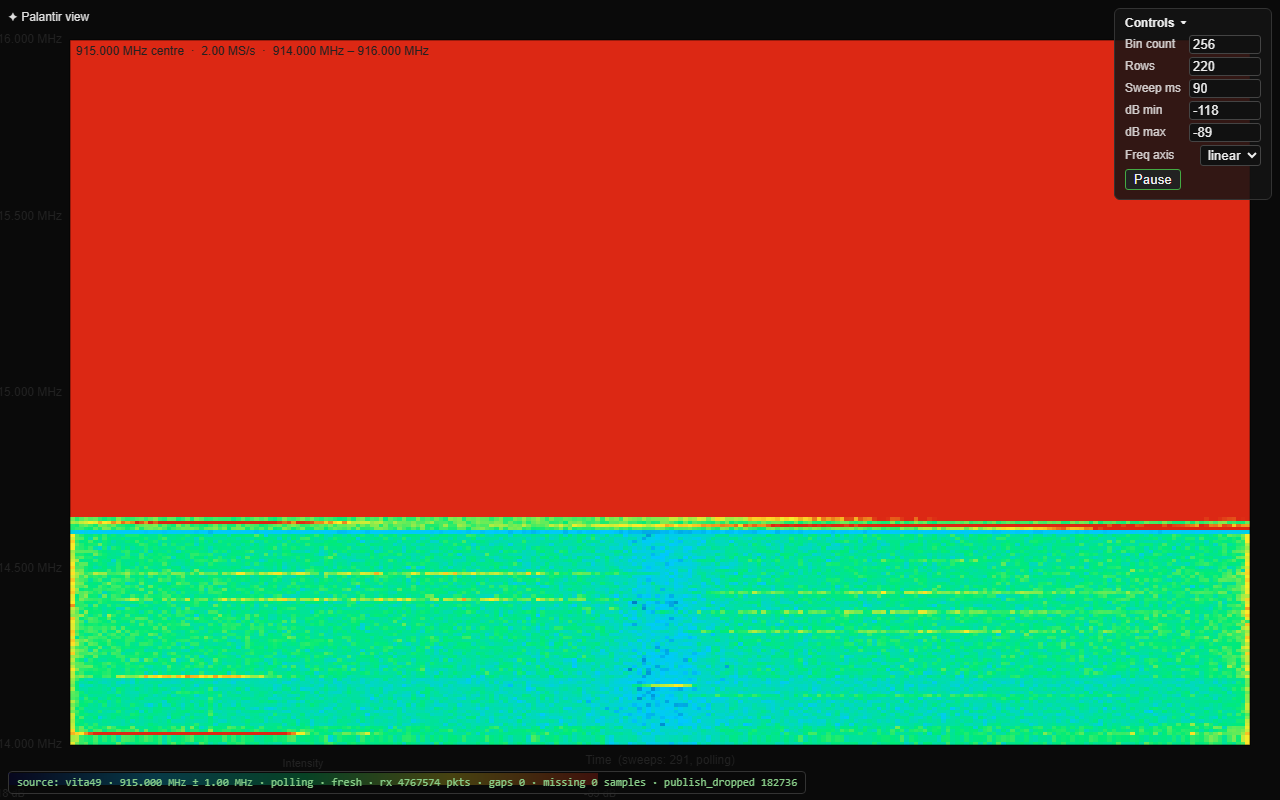
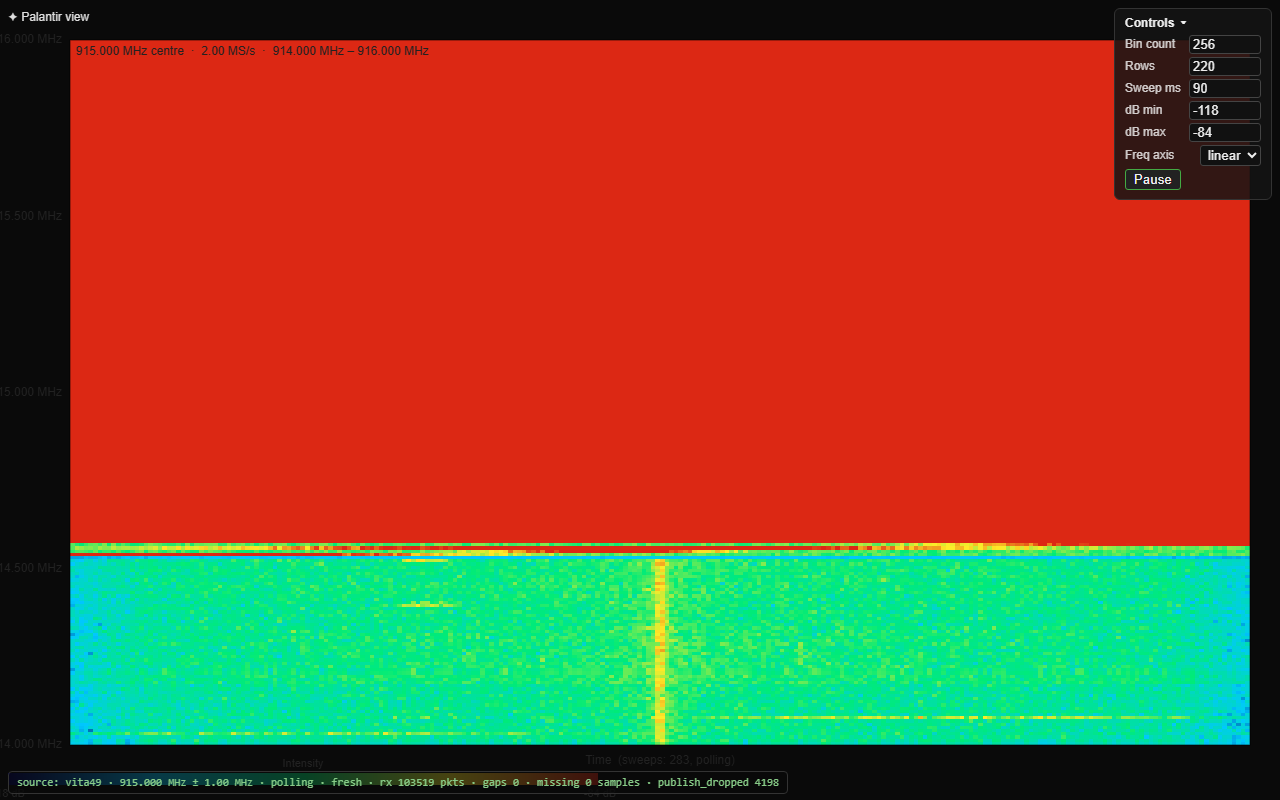
fix: label frequency on the horizontal axis and time on the vertical
The renderer writes each sweep as one PIXEL ROW spanning the canvas width and
scrolls those rows upward, so bins run along X and time along Y. The axis labels
were the other way round: MHz down the left edge and "Time" along the bottom.
Consequence on live RF: the DC spur at band centre drew as a vertical line while
the MHz scale sat on the unrelated axis, so the plot could not actually be read
as a spectrum.

- main.js: frequency labels (absolute MHz on a live feed) along the bottom with
  tick marks, band annotation unchanged at the top, and the time label rotated
  on the left edge where time advances. padLeft 70 -> 90 and padBottom 55 -> 92
  make room for the rotated label and the colour bar below the new labels.
- No change to the sweep buffer, decimation or colour mapping.

bun test 8 passed.

Changed region(s): [[0.0312, 0.625, 1.0, 0.9375], [0.3125, 0.9688, 0.625, 1.0]]

diff --git a/main.js b/main.js
@@ -114,7 +114,7 @@ function renderPlot() {
     console.log("Rendering plot..."); // Log entry point
     ctx.clearRect(0, 0, canvas.width, canvas.height);
 
-    const padLeft = 70, padRight = 30, padTop = 40, padBottom = 55;
+    const padLeft = 90, padRight = 30, padTop = 40, padBottom = 92;
     const plotW = canvas.width - padLeft - padRight;
     const plotH = canvas.height - padTop - padBottom;
 
@@ -134,19 +134,24 @@ function renderPlot() {
     }
 
 
-    // Axes.
+    // Axes. NOTE ON ORIENTATION: a sweep is written as one PIXEL ROW spanning
+    // the canvas width and `appendSweep` scrolls those rows upward, so bins run
+    // along X and time runs down Y. The frequency labels therefore belong on the
+    // bottom edge and the time label on the left edge -- an earlier revision had
+    // them the other way round, which made a constant carrier (the DC spur at
+    // band centre) appear as a vertical line with MHz labels down the side.
     ctx.strokeStyle = 'rgba(0,0,0,0.6)';
     ctx.lineWidth = 1;
     ctx.strokeRect(padLeft, padTop, plotW, plotH);
 
-    // Frequency labels (y axis). On a live RF stream these are absolute MHz
-    // (axis.js); on the synthetic baseband feed they stay relative Hz. Log
-    // spacing only applies to the relative axis — a log scale across a 2 MHz
-    // window around 915 MHz would be meaningless.
+    // Frequency labels (x axis): absolute MHz on a live RF stream (axis.js),
+    // relative Hz on the synthetic baseband feed. Log spacing only applies to
+    // the relative axis - a log scale across a 2 MHz window around 915 MHz
+    // would be meaningless.
     ctx.fillStyle = '#222';
     ctx.font = '12px sans-serif';
-    ctx.textAlign = 'right';
-    ctx.textBaseline = 'middle';
+    ctx.textAlign = 'center';
+    ctx.textBaseline = 'top';
     const fLo = Math.max(1, config.freqMin); // log(0) is -inf; clamp floor
     const fHi = Math.max(fLo + 1, config.freqMax);
     const useLog = config.freqScale === 'log' && !config.absoluteAxis;
@@ -156,15 +161,17 @@ function renderPlot() {
             // log-space between fLo and fHi
             const t = i / 4;
             f = fLo * (fHi / fLo) ** t;
-            if (i === 0) f = config.freqMin; // anchor the bottom edge exactly
+            if (i === 0) f = config.freqMin; // anchor the left edge exactly
         } else {
             f = config.freqMin + (config.freqMax - config.freqMin) * i / 4;
         }
-        const y = padTop + plotH - (plotH * i / 4);
+        const x = padLeft + (plotW * i / 4);
         const label = config.absoluteAxis
             ? WaterfallAxis.formatHzLabel(f)
             : `${f.toFixed(f >= 1000 ? 0 : 1)} Hz`;
-        ctx.fillText(label, padLeft - 8, y);
+        ctx.fillText(label, x, padTop + plotH + 8);
+        // Tick mark so the label reads as an axis, not a caption.
+        ctx.fillRect(x, padTop + plotH, 1, 4);
     }
 
     // Band annotation: on a live RF stream state the centre and span so the
@@ -180,13 +187,18 @@ function renderPlot() {
         );
     }
 
-    // Time label (x axis).
+    // Time label (y axis): rotated 90 degrees on the left edge, where time
+    // actually advances.
+    ctx.save();
+    ctx.translate(14, padTop + plotH / 2);
+    ctx.rotate(-Math.PI / 2);
     ctx.textAlign = 'center';
-    ctx.textBaseline = 'top';
-    ctx.fillText(`Time  (sweeps: ${rowOffset}, ${config.status})`, padLeft + plotW / 2, padTop + plotH + 10);
+    ctx.textBaseline = 'middle';
+    ctx.fillText(`Time ↑ (newest last, sweeps: ${rowOffset}, ${config.status})`, 0, 0);
+    ctx.restore();
 
-    // Color bar: horizontal strip under the plot, gradient left (min) to right (max).
-    const barH = 12, barY = padTop + plotH + 28, barPad = 8;
+    // Color bar: horizontal strip under the frequency labels.
+    const barH = 12, barY = padTop + plotH + 34, barPad = 8;
     ctx.textAlign = 'center';
     ctx.textBaseline = 'alphabetic';
     const barW = plotW / 2;
